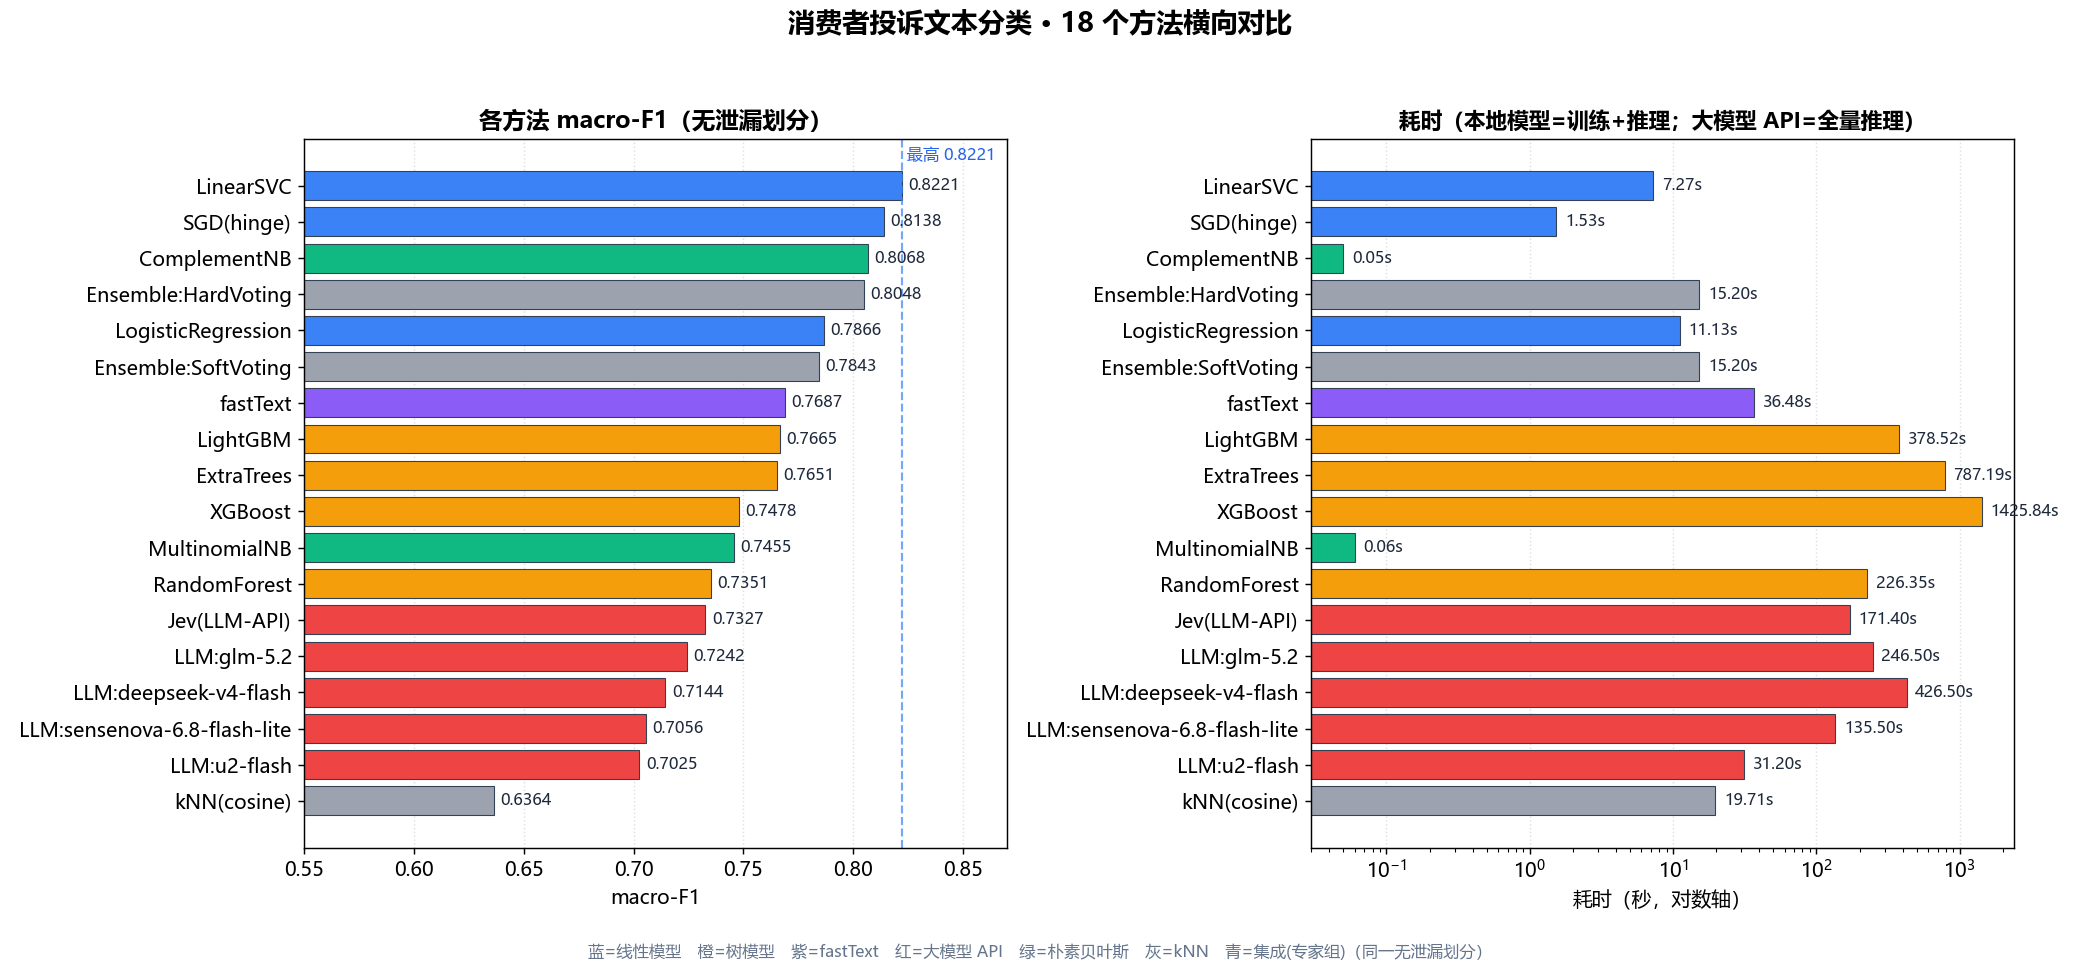
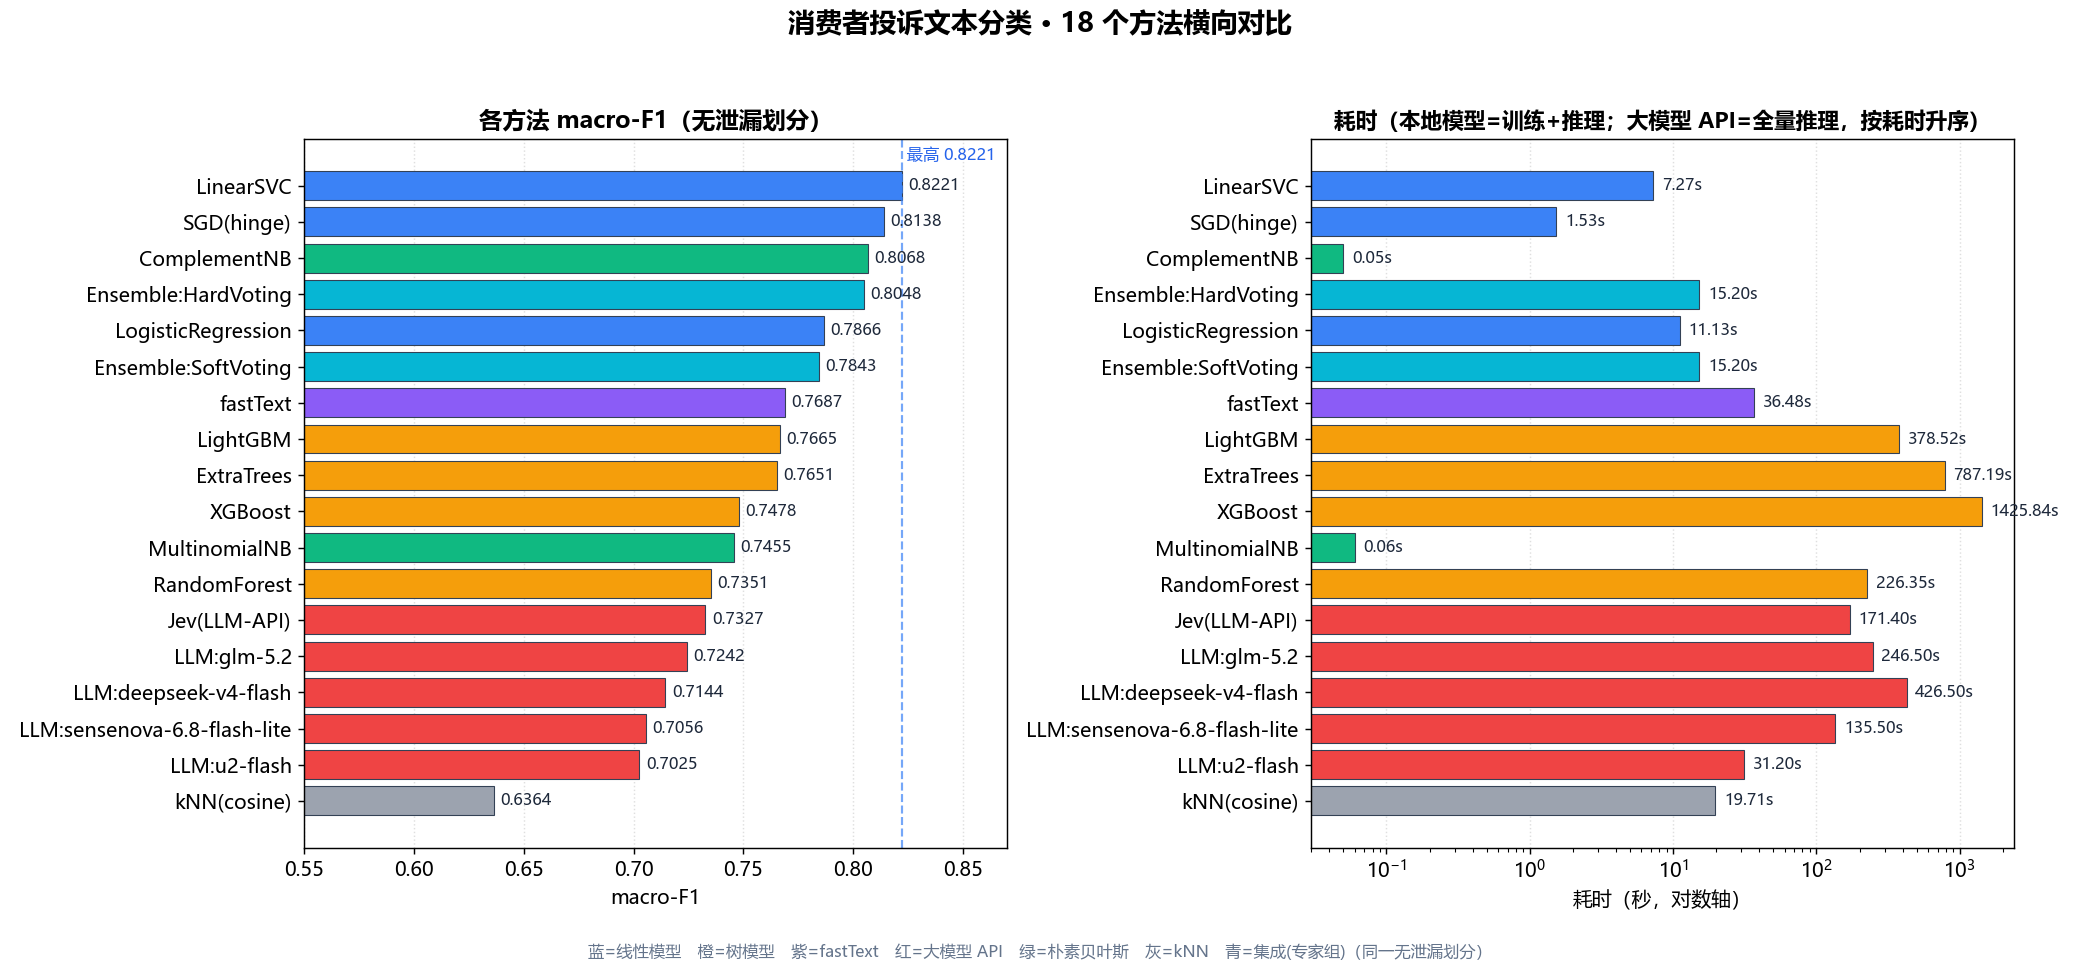
fix: 性能对比图集成条改青色+耗时面板按耗时升序；README/TENSOR 范围~改全角～去中划线

Changed region(s): [[0.125, 0.2807, 0.4375, 0.4054], [0.625, 0.2807, 0.8125, 0.4054], [0.625, 0.0936, 0.9375, 0.1559]]

diff --git a/resources/make_compare_fig.py b/resources/make_compare_fig.py
@@ -26,6 +26,8 @@ fit = [round((r.get("fit_s") or 0.0) + (r.get("infer_s") or 0.0), 2) for r in ro
 
 
 def color(n):
+    if n.startswith("Ensemble"):
+        return "#06b6d4"          # 集成(专家组) 青
     if n in ("LinearSVC", "SGD(hinge)", "LogisticRegression"):
         return "#3b82f6"          # 线性 蓝
     if n in ("RandomForest", "ExtraTrees", "XGBoost", "LightGBM"):
@@ -60,15 +62,20 @@ ax.text(best, len(names)-0.3, f" 最高 {best:.4f}", color="#2563eb", fontsize=9
 ax.grid(axis="x", ls=":", alpha=0.4)
 ax.set_axisbelow(True)
 
-# 右：耗时（对数轴）—— 本地模型为训练+推理，大模型 API 为全量推理总耗时
+# 右：耗时（对数轴）—— 按耗时从短到长独立排序（与左面板 macro-F1 顺序解耦）
 ax = axes[1]
 ax.set_facecolor(BG)
-bars = ax.barh(y, fit, color=[color(n) for n in names], edgecolor="#334155", linewidth=0.6)
-ax.set_yticks(y); ax.set_yticklabels(names)
+order_t = sorted(range(len(names)), key=lambda i: fit[i])          # 耗时升序
+y_t = [len(order_t) - 1 - pos for pos, i in enumerate(order_t)]    # 最短在顶端
+bars = ax.barh([y_t[i] for i in range(len(names))], fit,
+               color=[color(names[i]) for i in range(len(names))],
+               edgecolor="#334155", linewidth=0.6)
+ax.set_yticks(y_t); ax.set_yticklabels([names[i] for i in range(len(names))])
 ax.set_xscale("log")
 ax.set_xlabel("耗时（秒，对数轴）")
-ax.set_title("耗时（本地模型=训练+推理；大模型 API=全量推理）", fontsize=12, fontweight="bold")
-for b, v in zip(bars, fit):
+ax.set_title("耗时（本地模型=训练+推理；大模型 API=全量推理，按耗时升序）", fontsize=12, fontweight="bold")
+for i, b in enumerate(bars):
+    v = fit[i]
     ax.text(v * 1.15, b.get_y() + b.get_height()/2, f"{v:.2f}s",
             va="center", ha="left", fontsize=9, color="#1e293b")
 ax.grid(axis="x", ls=":", alpha=0.4)

diff --git a/resources/make_pareto_fig.py b/resources/make_pareto_fig.py
@@ -38,6 +38,8 @@ def cost(r):
 
 
 def color(n):
+    if n.startswith("Ensemble"):
+        return "#06b6d4"          # 集成(专家组) 青
     if n in ("LinearSVC", "SGD(hinge)", "LogisticRegression"):
         return "#3b82f6"          # 线性 蓝
     if n in ("RandomForest", "ExtraTrees", "XGBoost", "LightGBM"):

diff --git a/README.md b/README.md
@@ -53,7 +53,7 @@
 
 **为什么要造增强样本** —— 目的就是扩充数据集。原始投诉文本存在明显的长尾分布：热门领域（如本地生活）能采到几百条，而冷门领域（如母婴食品）只有几十条。样本过少会让模型在这些类别上学不到足够的语言模式，导致分类偏袒头部类别。数据增强通过对已有文本做等价改写、扩充出语义相近但表述不同的新样本，把弱势类别的样本量补齐，从而在类别间形成更均衡的训练集。
 
-本项目用的是**规则增强**（`aug_method=rule`），即用确定性的规则策略生成变体，例如同义词替换、句式改写、语序调整等，而不是靠模型生成。这样做的好处是可复现、可控，且不会引入模型幻觉带来的噪声。每条增强样本都通过 `variant_idx` 字段记录它对应的是原始样本的第几个变体（取值 `0`~`9`），便于溯源与去重。
+本项目用的是**规则增强**（`aug_method=rule`），即用确定性的规则策略生成变体，例如同义词替换、句式改写、语序调整等，而不是靠模型生成。这样做的好处是可复现、可控，且不会引入模型幻觉带来的噪声。每条增强样本都通过 `variant_idx` 字段记录它对应的是原始样本的第几个变体（取值 `0`～`9`），便于溯源与去重。
 
 需要说明的是，**增强只扩充样本数量**，不改变标签体系 —— 增强样本的 `category` 与其来源的原始样本一致。
 
@@ -66,7 +66,7 @@
 | `category` | **标签** | 所属消费领域类别，共 18 类（模型预测目标） |
 | `is_aug` | 辅助 | 是否为增强样本：`0` = 原始样本，`1` = 增强样本 |
 | `aug_method` | 辅助 | 增强方法，当前均为 `rule`（原始样本该字段为空） |
-| `variant_idx` | 辅助 | 增强变体序号（`0`~`9`），原始样本为空 |
+| `variant_idx` | 辅助 | 增强变体序号（`0`～`9`），原始样本为空 |
 
 ### 2.4 类别体系与分布
 
@@ -96,7 +96,7 @@
 
 ### 2.5 数据处理说明
 
-- **类别均衡化**：原始数据存在明显长尾——头部类别（本地生活等）有数百条，尾部类别（母婴食品仅 43 条）样本稀少。项目对弱势类别施加更高倍率的规则增强来扩充数据集，使增强后各类别样本量趋于均衡（多数类别约 1,700~1,850 条），缓解类别不平衡带来的模型偏置。
+- **类别均衡化**：原始数据存在明显长尾——头部类别（本地生活等）有数百条，尾部类别（母婴食品仅 43 条）样本稀少。项目对弱势类别施加更高倍率的规则增强来扩充数据集，使增强后各类别样本量趋于均衡（多数类别约 1,700～1,850 条），缓解类别不平衡带来的模型偏置。
 - **规则增强**：`aug_method=rule` 表明增强采用确定性的规则策略（如同义替换、句式改写等）生成，`variant_idx` 标记每条原始样本衍生出的变体序号，便于溯源与去重。
 - **使用建议**：训练时可通过 `is_aug` 字段区分原始与增强样本，用于加权、采样或消融实验；评估时应优先在原始样本（`is_aug=0`）上报告指标，以获得对真实分布的可靠估计。
 
@@ -205,10 +205,10 @@ is_aug   : 0
 
 几条关键结论：
 
-- **类别已基本均衡但尾部偏少**：增强后多数类别样本量在 1,700~1,850 之间，但医疗健康（1,382）、婚恋交友（1,297）、母婴食品（416）仍明显偏少。
-- **文本长度集中在 150~200 字符**：全样本平均 142 字符，中位 165 字符，分布左偏；短的投诉往往一两句就把问题说完。
-- **文本结构简单**：近六成样本仅 1~2 句，语义多在单句内完成。
-- **增强引入轻微偏移**：增强样本比原始样本平均长 9~11 字符，做消融实验时需留意，评估应优先基于原始样本。
+- **类别已基本均衡但尾部偏少**：增强后多数类别样本量在 1,700～1,850 之间，但医疗健康（1,382）、婚恋交友（1,297）、母婴食品（416）仍明显偏少。
+- **文本长度集中在 150～200 字符**：全样本平均 142 字符，中位 165 字符，分布左偏；短的投诉往往一两句就把问题说完。
+- **文本结构简单**：近六成样本仅 1～2 句，语义多在单句内完成。
+- **增强引入轻微偏移**：增强样本比原始样本平均长 9～11 字符，做消融实验时需留意，评估应优先基于原始样本。
 - **内容主线是交易与售后**：全样本高频词集中在购买、订单、售后、退款、拒绝等，反映投诉多发生在售后环节；各类别用词区分度高，品牌名是强类别信号。
 
 ---
@@ -282,9 +282,9 @@ is_aug   : 0
 几点观察：
 
 - **线性模型明显优于树模型**：TF-IDF 是 25,251 维的高度稀疏特征，线性模型恰好擅长；树模型在高维稀疏矩阵上难以有效分裂且过拟合，RandomForest 训练 226 秒反而只有 0.7351。
-- **梯度提升树同样不划算**（XGBoost / LightGBM）：作为"更强的树模型"，二者精度仅 0.75~0.77，仍落后线性模型 5~7 个点；XGBoost 训练更要 1,426 秒（约 LinearSVC 的 200 倍）。LightGBM 因为直方图算法 + 叶子生长更快（377 秒），是树模型里性价比最高的，但依然不敌线性 SVM。
+- **梯度提升树同样不划算**（XGBoost / LightGBM）：作为"更强的树模型"，二者精度仅 0.75～0.77，仍落后线性模型 5～7 个点；XGBoost 训练更要 1,426 秒（约 LinearSVC 的 200 倍）。LightGBM 因为直方图算法 + 叶子生长更快（377 秒），是树模型里性价比最高的，但依然不敌线性 SVM。
 - **fastText 表现中游**（0.7687）：作为"词袋 + 词向量 + 线性分类"一体的高效基线，36 秒训练拿到 0.7687，优于全部树模型，但比线性 SVM 低约 5 个点。原因在于本文本的关键信号集中在少数强判别词（品牌/业务词），词袋线性模型已能充分捕捉，fastText 的 n-gram 子词与浅层嵌入未带来额外收益。
-- **大模型 API 整体未占优**（0.70~0.73）：6 个 API 方法全部落在 0.70~0.73 区间，**均低于线性 SVM 约 9~12 个点**，最高者是商汤的 glm-5.2（0.7242）。可能原因：全量 18 类细粒度分类对"单次判定/单词表判分"偏难，且该类任务的关键信号是强判别词（品牌/业务词），LLM 更擅长开放语义理解而非封闭词表判分。其价值在于**无需训练数据、开箱即用**，而非精度。
+- **大模型 API 整体未占优**（0.70～0.73）：6 个 API 方法全部落在 0.70～0.73 区间，**均低于线性 SVM 约 9～12 个点**，最高者是商汤的 glm-5.2（0.7242）。可能原因：全量 18 类细粒度分类对"单次判定/单词表判分"偏难，且该类任务的关键信号是强判别词（品牌/业务词），LLM 更擅长开放语义理解而非封闭词表判分。其价值在于**无需训练数据、开箱即用**，而非精度。
 - **批量分类让 API 方法更实用**：商汤与云知声采用 64 条/批的打包调用，u2-flash 仅 31 秒跑完全部 1,378 条（远快于逐条调用的 Jev 85.7 秒）。其中云知声 u2-flash 关闭思考（`thinking=disabled`）、商汤各模型关闭思考（`reasoning_effort=none`）后稳定返回 JSON，避免了思考模型"把 token 全耗在推理上、正文为空"的坑。
 - **朴素贝叶斯是"秒级"基线**：ComplementNB 用 0.1 秒拿到 0.8068，适合作为超低成本的兜底方案。
 - **专家组集成未反超单模型最优**（详见 5.7）：把 6 个非树传统模型做硬投票（0.8048）/软投票（0.7843），均**低于**单模型最优 LinearSVC（0.8221）——"三个臭皮匠"在此任务上没顶过"诸葛亮"，朴素投票只是把最强者拉向中庸。
@@ -299,7 +299,7 @@ is_aug   : 0
 - **帕累托前沿只有 3 个成员**：ComplementNB、SGD（hinge）、LinearSVC。三者都在左上区域，是"速度快、精度高"的绝对赢家。
 - **ComplementNB 是性价比之王**：0.05 秒训练即达 0.8068，速度比 LinearSVC 快约两个数量级，仅在精度上让出约 1.5 个点。
 - **LinearSVC 占据前沿右上端**：以 7.3 秒换到最高 0.8221，是"要精度就选它"的位置。
-- **树模型与大模型 API 均在边界之内**（被支配区）：XGBoost 用 1,426 秒却只有 0.7478；6 个大模型 API 方法虽无需训练，但耗时（30~430 秒）与精度（0.70~0.73）都不占优，同样位于边界之内。
+- **树模型与大模型 API 均在边界之内**（被支配区）：XGBoost 用 1,426 秒却只有 0.7478；6 个大模型 API 方法虽无需训练，但耗时（30～430 秒）与精度（0.70～0.73）都不占优，同样位于边界之内。
 - **两个集成组合也落在被支配区**：5.7 节的 6 专家硬/软投票（耗时 15.2s、macro-F1 0.8048 / 0.7843）同时被 ComplementNB（0.05s、0.8068）与 LinearSVC（7.3s、0.8221）支配——朴素集成既更慢又更低，未进入前沿，与"专家组没顶过诸葛亮"的结论一致。
 - 一句话：在这个任务上，"快"和"准"并不冲突——最好的三个方法恰好也是最快的三个。
 
@@ -335,7 +335,7 @@ is_aug   : 0
 - **真实泛化水平约 0.82**；此前随机划分下的 0.99 为泄漏虚高，对外一律以上表为准。
 - **部署推荐 TF-IDF + 线性 SVM**：精度最优、训练秒级、推理毫秒级、模型几 MB、零框架依赖，适合"投诉自动分流"这类场景。
 - **大模型 API 无需训练即可用**：Jev 直接对文本做结构化判定（无训练集依赖、开箱即用），但在本任务上精度不占优（0.7327）；若换用更强的对话模型或补充 few-shot 示例，精度或有提升空间，可作为"零训练冷启动"的备选方案。
-- **BERT 微调代价高昂**：在同等无泄漏协议下与 TF-IDF + SVM 差距有限（约 1~1.5 个百分点），却需 GPU 与数十倍训练时间，仅当机器需理解未见语义改写时才值得上。
+- **BERT 微调代价高昂**：在同等无泄漏协议下与 TF-IDF + SVM 差距有限（约 1～1.5 个百分点），却需 GPU 与数十倍训练时间，仅当机器需理解未见语义改写时才值得上。
 - **任何随机划分的评估都会被系统性高估**，后续所有报告指标都必须采用**按源 id 分组**的划分。
 - **帕累托视角下快与准并不冲突**：ComplementNB、SGD、LinearSVC 同时占据速度与精度前沿，其余方法无论多慢都未能进入边界。
 
